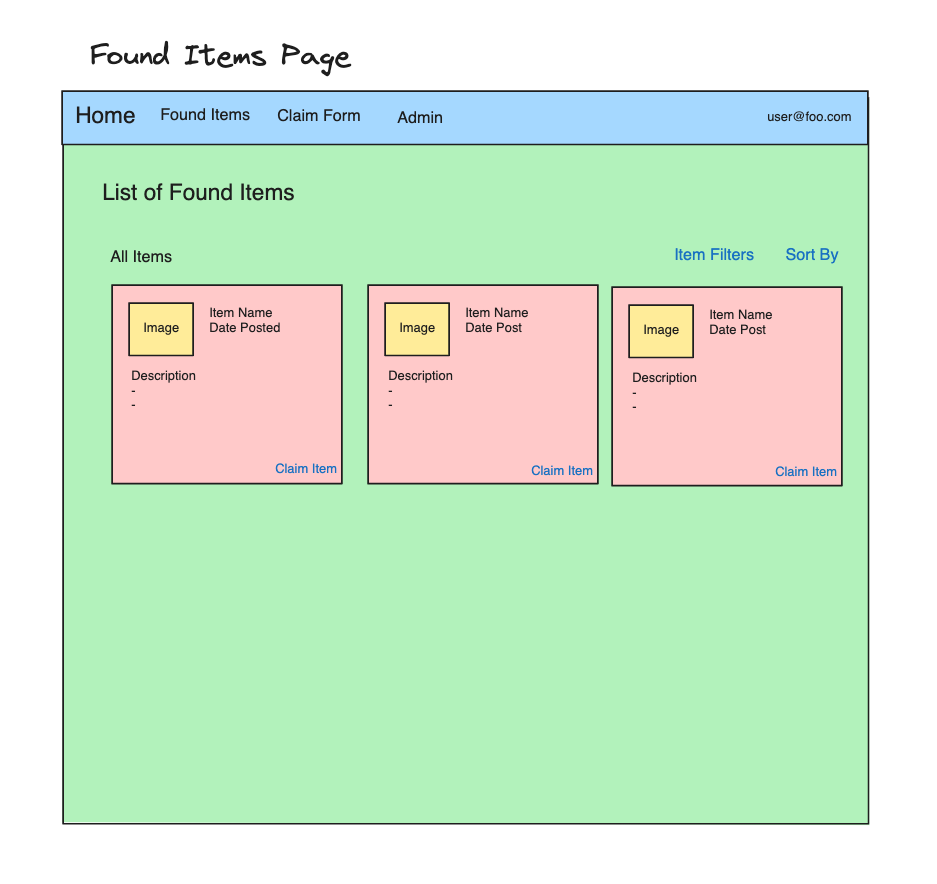
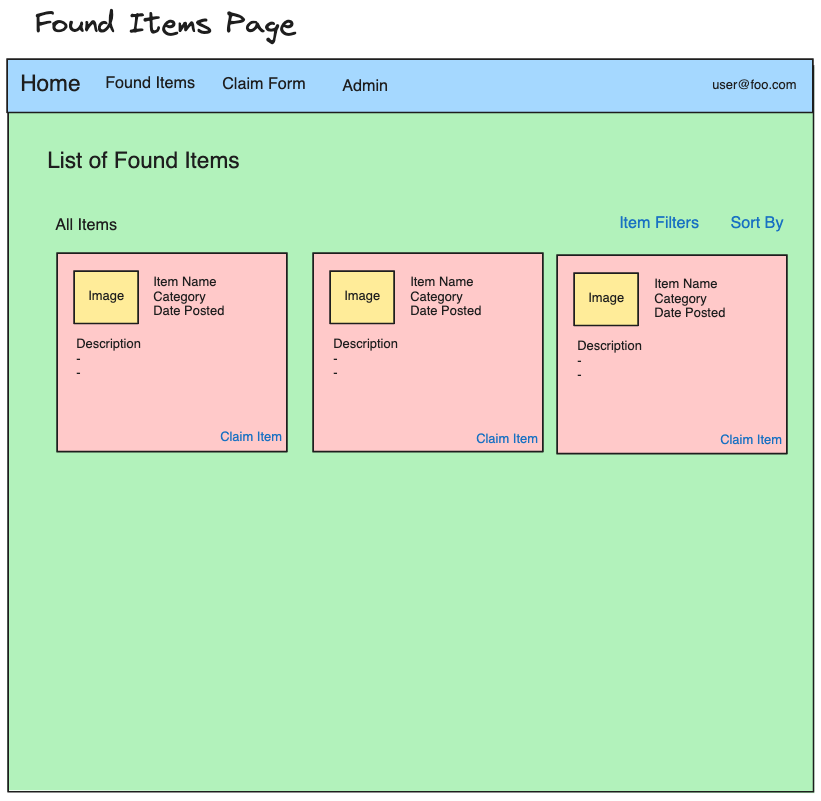
Add found items mockup page

diff --git a/index.md b/index.md
@@ -52,6 +52,14 @@ Once you log in (either to an existing account or by creating a new one), the na
 
 You can now access the lost item list and the claim form.
 
+#### Found Items page
+
+Following the navbar link to Found Items will bring you to the page listing all the items that have been found:
+
+<div class="center"><img src="doc/found-items-mockup.png" width="950px"></div>
+
+The items are listed in cards, with images and details. There is also an option to filter (e.g. by category) and to sort (e.g. by date posted). At the bottom of each item card is a link to claim the item. This link leads to the claim form.
+
 
 ## Team
 
